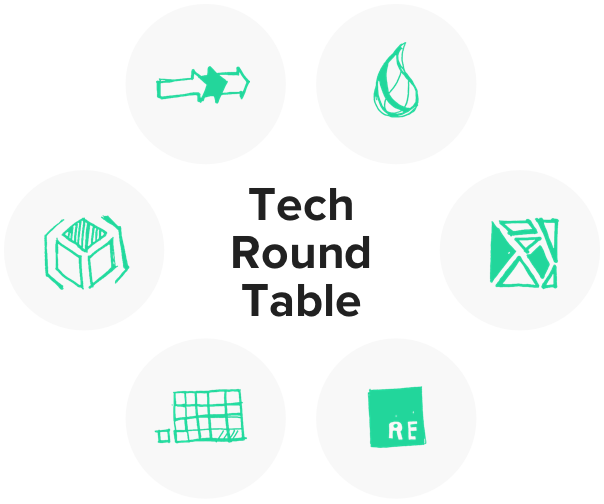
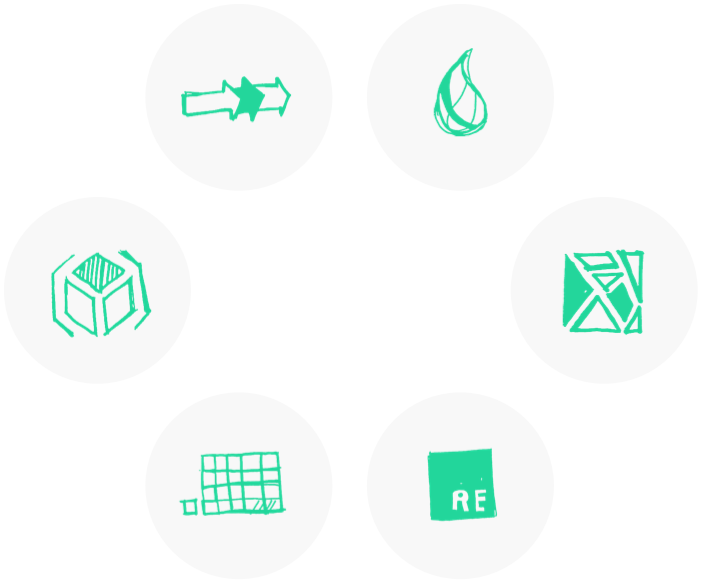
Design review tweakings

diff --git a/site/pages/technology/index.js b/site/pages/technology/index.js
@@ -8,7 +8,7 @@ import WebinarSignupSlice from './webinar-signup-slice';
 import { TechChecklist } from '../../slices/checklist-contact-us-slice';
 
 import { WhiteSlice, GreenSlice } from '../../components/slice';
-import { H1, H2 } from '../../components/headings';
+import { H1, H2, H3 } from '../../components/headings';
 import { RoundtableHubspotButton } from '../../components/buttons';
 import { XSmallText } from '../../components/text';
 import Image from '../../components/image';
@@ -32,11 +32,16 @@ const TechnologyPage = ({ triedAndTestedBlogPosts, growingTrendsBlogPosts }: Pro
     <GreenSlice>
       <div className={styles.green}>
         <div className={styles.left}>
-          <Image src={roundTableImage} src2x={roundTableImage2x} src3x={roundTableImage3x} />
+          <div className={styles.roundTableHeading}>
+            <H2 type="fontS2">Tech Round Table</H2>
+          </div>
+          <div className={styles.image}>
+            <Image src={roundTableImage} src2x={roundTableImage2x} src3x={roundTableImage3x} />
+          </div>
         </div>
         <div className={styles.right}>
-          <div className={styles.roundtableHeading}>
-            <H2 type="fontM2">April 2018 Report</H2>
+          <div className={styles.roundTableSubHeading}>
+            <H3 type="fontM2">April 2018 Report</H3>
           </div>
           <div className={styles.description}>
             <XSmallText>

diff --git a/site/pages/technology/style.css b/site/pages/technology/style.css
@@ -12,6 +12,7 @@
 .green {
   display: flex;
   flex-direction: column;
+  position: relative;
 }
 
 .left, 
@@ -25,6 +26,11 @@
   margin-bottom: 30px;
 }
 
+.image img {
+  height: 250px;
+  width: 300px;
+}
+
 .right {
   display: flex;
   flex-direction: column;
@@ -32,8 +38,15 @@
   text-align: center;
 }
 
-.roundtableHeading {
+.roundTableSubHeading {
   margin-bottom: 4px;
+}
+
+.roundTableHeading {
+  position: absolute;
+  width: 64px;
+  text-align: center;
+  top: 86px;
 }
 
 .description {
@@ -57,15 +70,15 @@
   .green {
     flex-direction: row;
     margin: 0 auto;
-  }
-
-  .description {
-    margin-left: unset;
+    max-width: 870px
   }
 
   .heading {
-    margin-top: 110px;
+    margin-top: 70px;
     margin-bottom: 110px;
+    max-width: 630px;
+    text-align: left;
+    padding-left: 40px;
   }
 
   .left {
@@ -74,23 +87,32 @@
 
   .right {
     padding-left: 8px;
+    text-align: left;
   }
 
-  .heading {
-    max-width: 870px;
-  }
 }
 
 @media largeScreen {
+  .image img {
+    height: auto;
+    width: auto;
+  }
+
   .heading {
     margin-top: 150px;
     margin-bottom: 150px;
+    max-width: 1000px;
+    padding-left: 20px;
+    padding-right: 20px;
   }
 
-  .roundtableHeading {
+  .roundTableHeading {
+    top: 100px;
+  }
+
+  .roundTableSubHeading {
     margin-bottom: 12px;
   }
-
 }
 
 /* ============= Webinar signup styling ============= */
